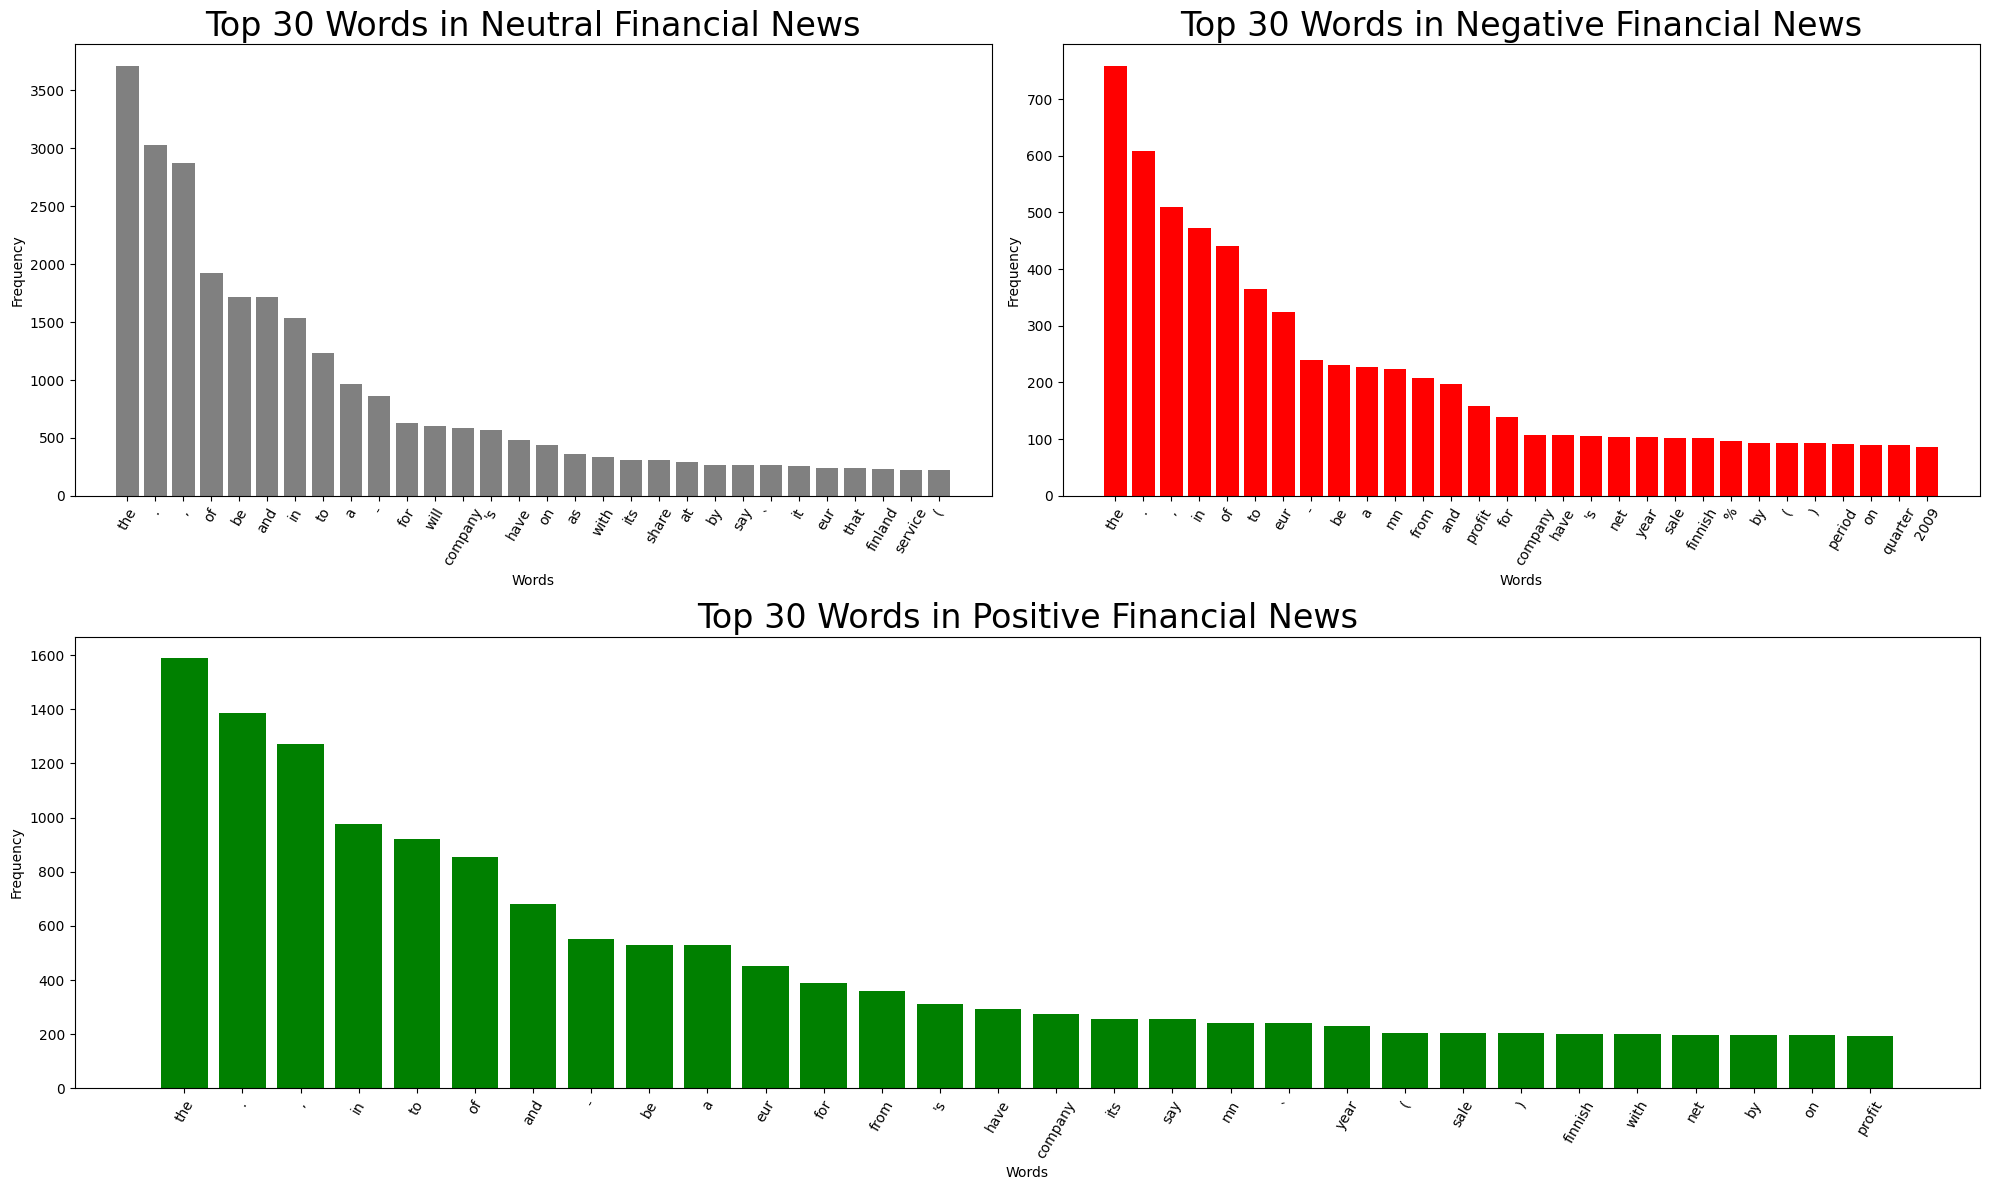
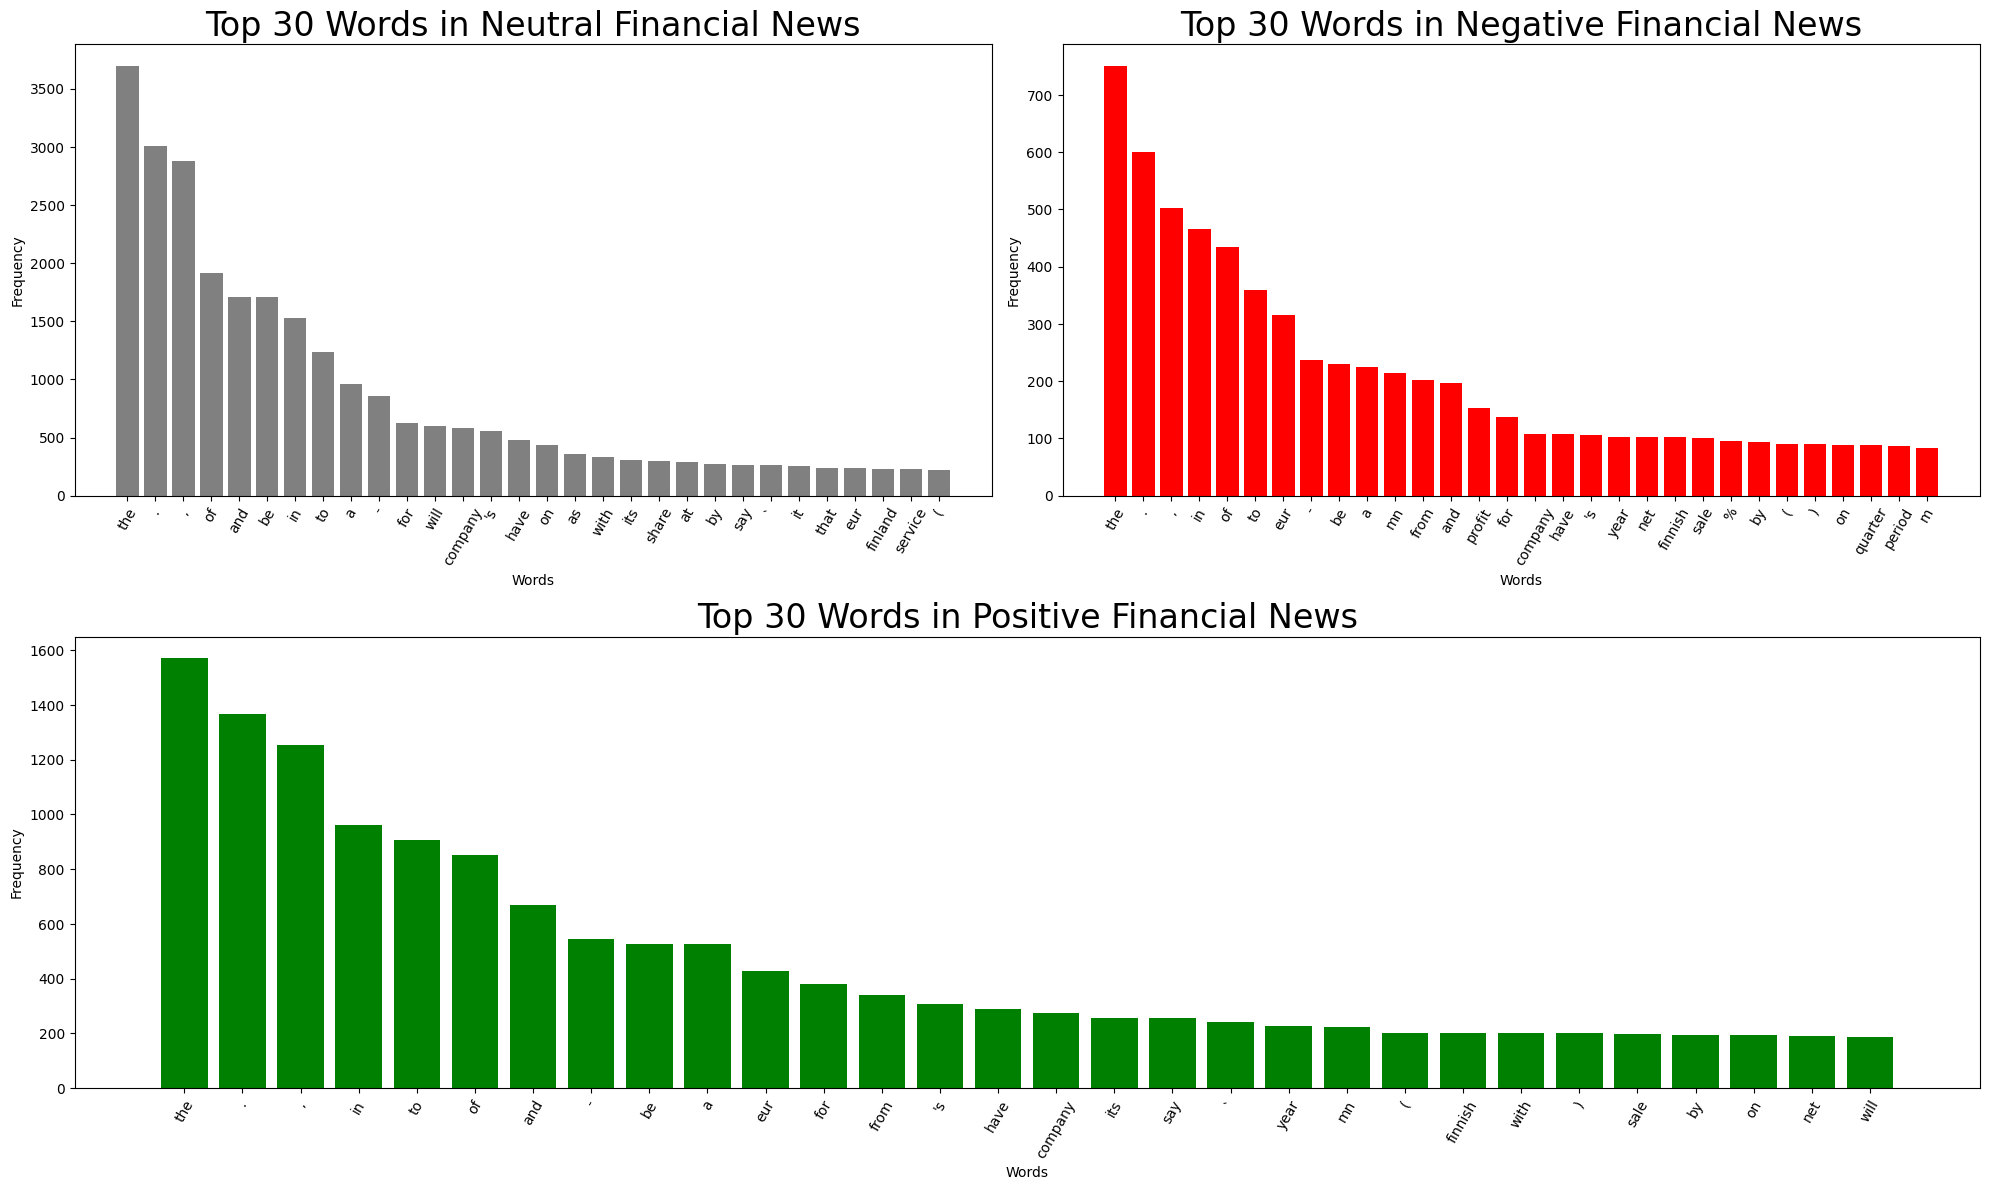
improve models

diff --git a/src/preprocessing.py b/src/preprocessing.py
@@ -46,9 +46,12 @@ def remove_empty_or_whitespace_rows(df: pd.DataFrame, column: str) -> pd.DataFra
 
 
 def lemmatize_and_clean_text(doc) -> str:
-    """Lemmatizes a spaCy Doc and removes stopwords and punctuation."""
+    """Lemmatizes a spaCy Doc and removes numbers, stopwords and punctuation."""
     return " ".join(
-        token.lemma_ for token in doc
+        token.lemma_
+        for token in doc
+        if not token.like_num  # removes numeric tokens
+        and not any(char.isdigit() for char in token.text)  # removes tokens with digits
     )  # if not token.is_stop and not token.is_punct
 
 
